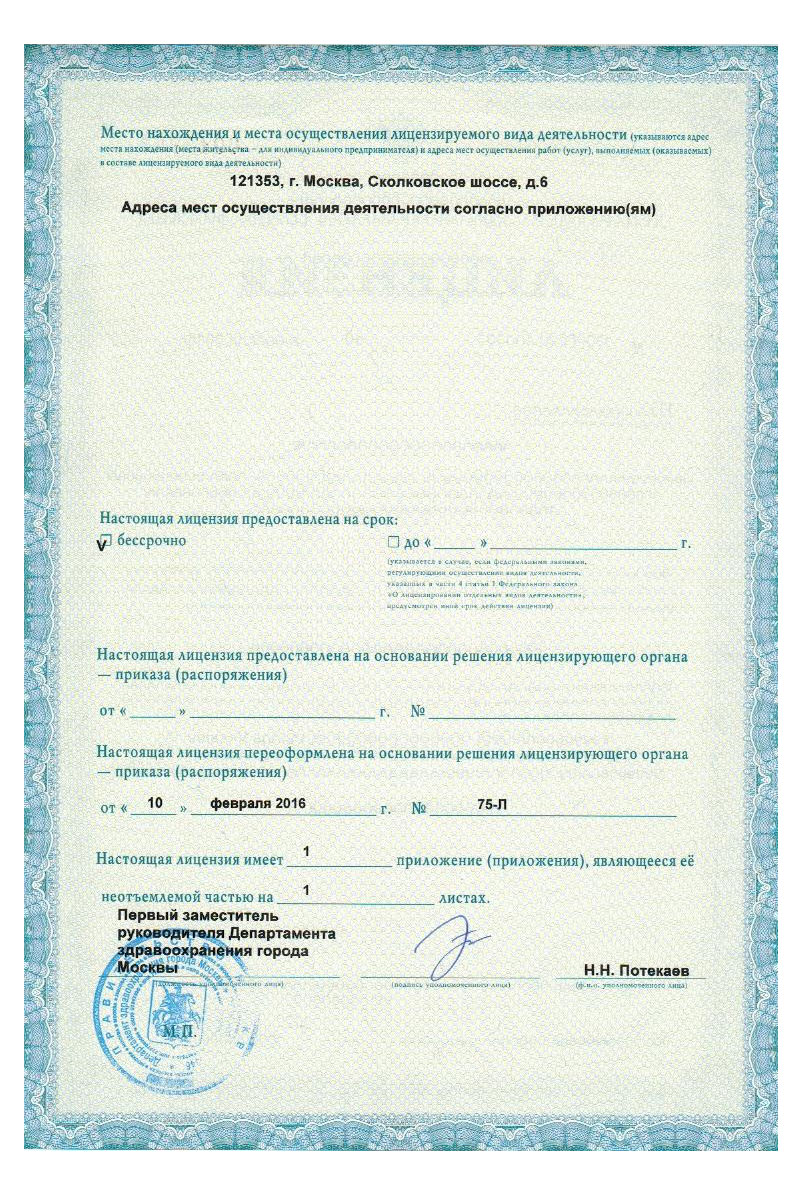
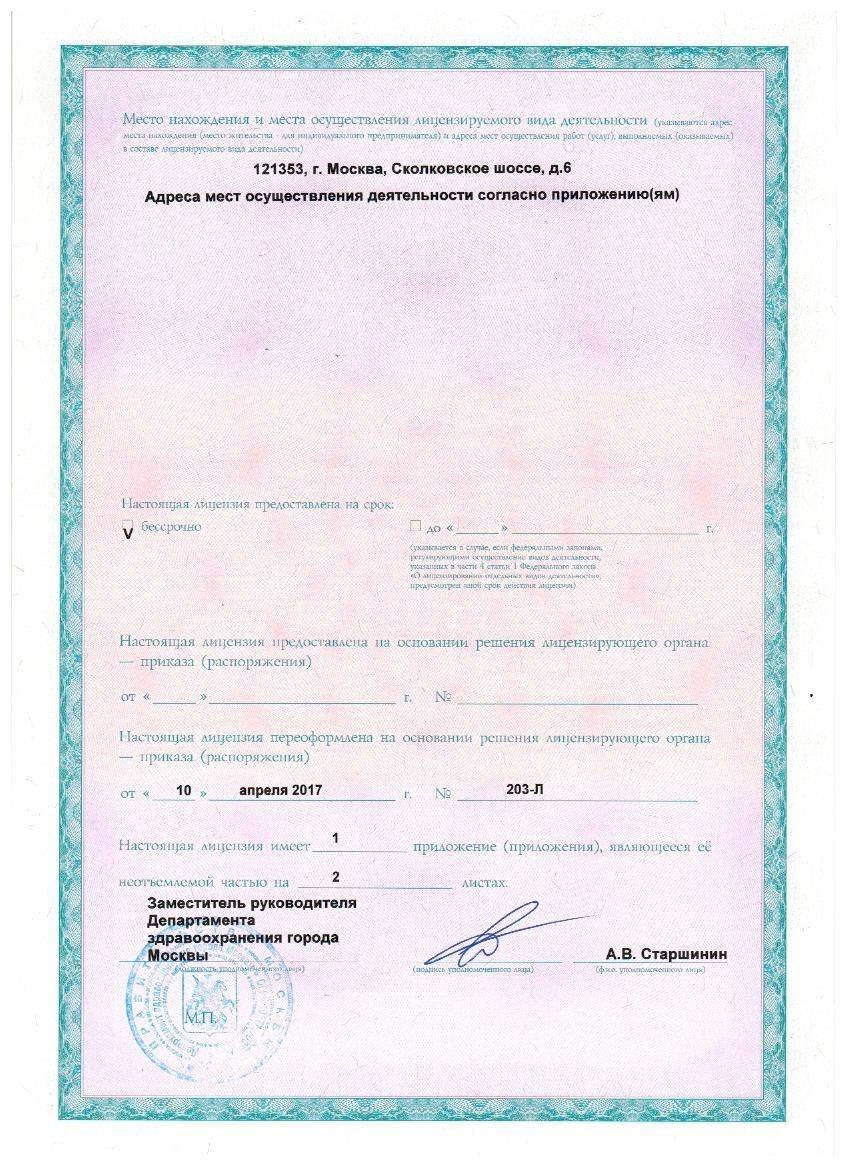
Update licenses

diff --git a/information/docs.md b/information/docs.md
@@ -23,7 +23,8 @@ title: Документы
   {% include doc-link.html text="Приложение № 1.1" uri="files/docs/license_education_3.jpg" %}
 * {% include doc-link.html text="Лицензия на осуществление медицинской деятельности" uri="files/docs/license_medical_1.jpg" %} |
   {% include doc-link.html text="оборотная сторона" uri="files/docs/license_medical_2.jpg" %} |
-  {% include doc-link.html text="Приложение № 1" uri="files/docs/license_medical_3.jpg" %}
+  {% include doc-link.html text="Приложение № 1 (стр. 1)" uri="files/docs/license_medical_3.jpg" %}
+  {% include doc-link.html text="Приложение № 1 (стр. 2)" uri="files/docs/license_medical_4.jpg" %}
 * {% include doc-link.html text="Лицензия на осуществление фармацевтической деятельности" uri="files/docs/license_pharmacy_1.jpg" %} |
   {% include doc-link.html text="оборотная сторона" uri="files/docs/license_pharmacy_2.jpg" %} |
   {% include doc-link.html text="Приложение № 1" uri="files/docs/license_pharmacy_3.jpg" %}
